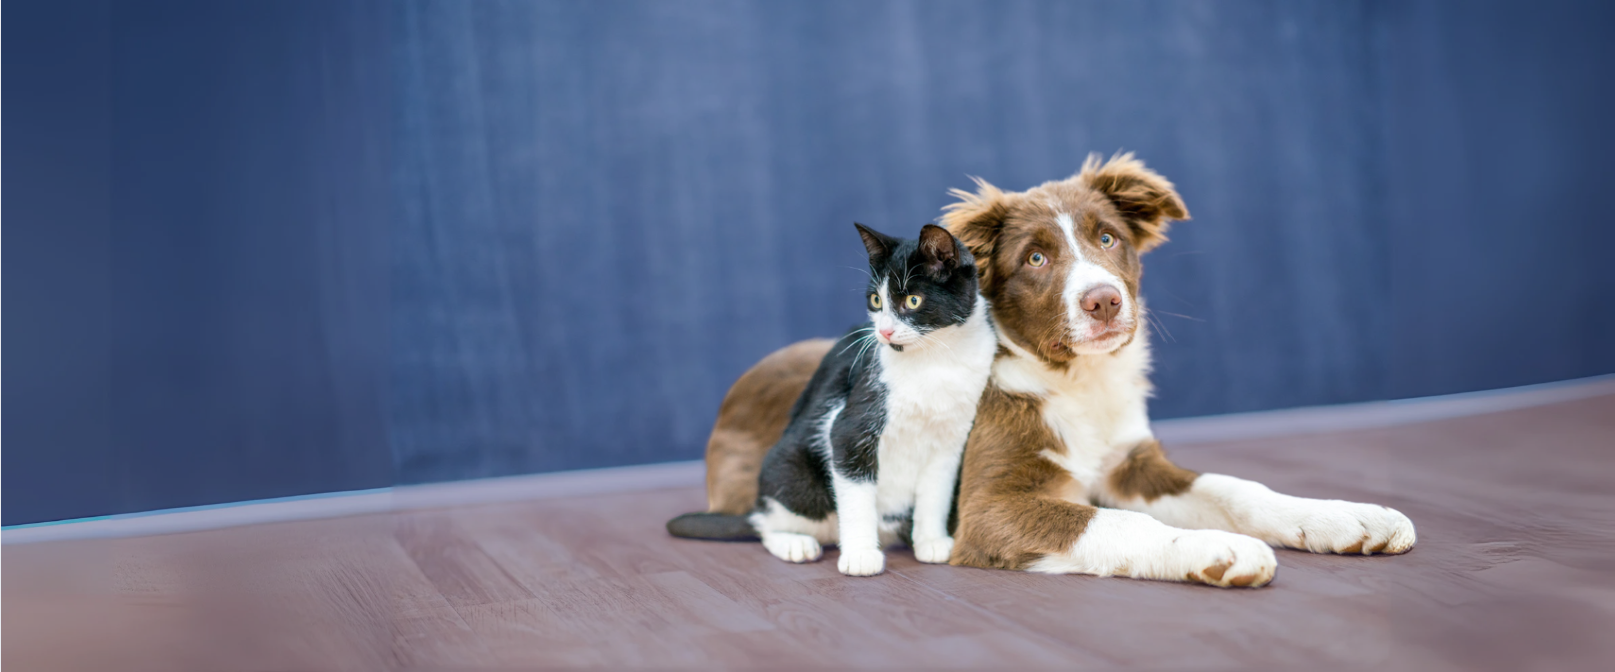
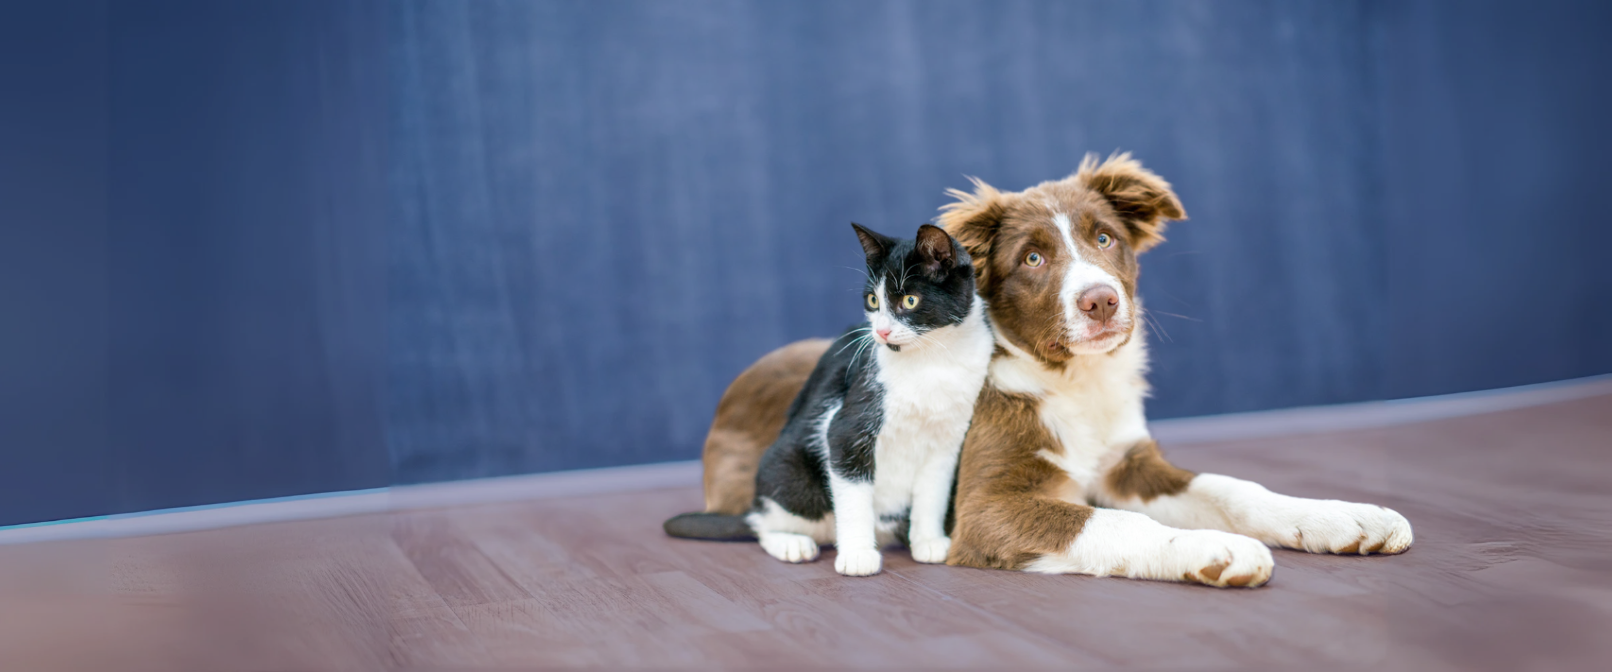
Fix styles

diff --git a/src/app/home/home.component.ts b/src/app/home/home.component.ts
@@ -4,6 +4,7 @@ import { ProductsCategoryCardComponent } from '../components/products-category-c
 import { FeatureProductsComponent } from "../components/feature-products/feature-products.component";
 import { OurAlliesComponent } from "../components/our-allies/our-allies.component";
 import { InsuranceExperienceComponent } from "../components/insurance-experience/insurance-experience.component";
+import { CustomersComponent } from "../components/customers/customers.component";
 
 @Component({
   selector: 'app-home',
@@ -13,7 +14,8 @@ import { InsuranceExperienceComponent } from "../components/insurance-experience
     ProductsCategoryCardComponent,
     FeatureProductsComponent,
     OurAlliesComponent,
-    InsuranceExperienceComponent
+    InsuranceExperienceComponent,
+    CustomersComponent
 ],
   templateUrl: './home.component.html',
   styleUrl: './home.component.css',

diff --git a/src/app/components/customers/customers.component.css b/src/app/components/customers/customers.component.css
@@ -1,0 +1,47 @@
+
+.customers {
+  display: block;
+  width: 100%;
+  padding-top: 80px;
+  background-color: #f9f9f9;
+}
+
+.customers h1 {
+  text-align: center;
+  color: var(--primaryTextColor);
+  font-size: 3rem;
+  width: 100%;
+}
+
+.customers-container {
+  display: flex;
+  justify-content: space-around;
+  align-items: center;
+  flex-wrap: wrap;
+  padding: 0;
+  gap: 50px;
+}
+
+.customer-item {
+  position: relative;
+  width: 350px;
+  height: 350px;
+  border-radius: 50px;
+  overflow: hidden;
+  display: flex;
+  justify-content: center;
+  align-items: center;
+}
+
+.customer-item img {
+  width: 100%;
+  height: 100%;
+  object-fit: contain;
+  object-position: center;
+}
+
+@media screen and (max-width: 767px) {
+  .customers-container {
+    padding: 0;
+  }
+}

diff --git a/src/app/components/insurance-experience/insurance-experience.component.css b/src/app/components/insurance-experience/insurance-experience.component.css
@@ -219,44 +219,3 @@
     width: 100%;
   }
 }
-
-/* Customer */
-
-.customers-container {
-  display: flex;
-  justify-content: space-around;
-  align-items: center;
-  flex-wrap: wrap;
-  padding: 50px 0;
-  gap: 50px;
-}
-
-.customer-item {
-  position: relative;
-  width: 350px;
-  height: 350px;
-  border-radius: 50px;
-  overflow: hidden;
-  background-color: white;
-  display: flex;
-  justify-content: center;
-  align-items: center;
-}
-
-.customer-item img {
-  width: 100%;
-  height: 100%;
-  object-fit: contain;
-  object-position: center;
-}
-
-@media screen and (max-width: 767px) {
-  .customers-container {
-    padding: 0;
-  }
-
-  .customer-item {
-    width: 100%;
-  }
-
-}

diff --git a/src/app/components/our-allies/our-allies.component.html b/src/app/components/our-allies/our-allies.component.html
@@ -1,12 +1,12 @@
 <div class="section-container">
   <h1>Nuestros Aliados</h1>
   <div class="banner-container">
-    <div class="banner-content" *ngFor="let ally of allies">
+    <div class="banner-content remove-bg" *ngFor="let ally of allies">
       <div class="image-container">
         <img cTooltip="{{ally.name}}" [src]="ally.image" alt="{{ally.name}}">
       </div>
     </div>
-    <div aria-hidden class="banner-content" *ngFor="let ally of allies">
+    <div aria-hidden class="banner-content remove-bg" *ngFor="let ally of allies">
       <div class="image-container">
         <img cTooltip="{{ally.name}}" [src]="ally.image" alt="{{ally.name}}">
       </div>

diff --git a/src/app/components/customers/customers.component.spec.ts b/src/app/components/customers/customers.component.spec.ts
@@ -1,0 +1,23 @@
+import { ComponentFixture, TestBed } from '@angular/core/testing';
+
+import { CustomersComponent } from './customers.component';
+
+describe('CustomersComponent', () => {
+  let component: CustomersComponent;
+  let fixture: ComponentFixture<CustomersComponent>;
+
+  beforeEach(async () => {
+    await TestBed.configureTestingModule({
+      imports: [CustomersComponent]
+    })
+    .compileComponents();
+
+    fixture = TestBed.createComponent(CustomersComponent);
+    component = fixture.componentInstance;
+    fixture.detectChanges();
+  });
+
+  it('should create', () => {
+    expect(component).toBeTruthy();
+  });
+});

diff --git a/src/app/components/customers/customers.component.html b/src/app/components/customers/customers.component.html
@@ -1,0 +1,14 @@
+<div class="customers">
+  <h1>Clientes que confian en nosotros</h1>
+  <div class="customers-container">
+    <div class="customer-item">
+      <img src="/images/logos/miniso.png" class="remove-bg" alt="miniso-image">
+    </div>
+    <div class="customer-item">
+      <img src="/images/logos/farmacias-simi.png" class="remove-bg" alt="simi-image">
+    </div>
+    <div class="customer-item">
+      <img src="/images/logos/gabrica.png" class="remove-bg" alt="gabrica-image">
+    </div>
+  </div>
+</div>

diff --git a/src/app/components/insurance-experience/insurance-experience.component.html b/src/app/components/insurance-experience/insurance-experience.component.html
@@ -27,16 +27,4 @@
       <h1>Líneas de Producto</h1>
     </div>
   </div>
-  <h1>Clientes que confian en nosotros</h1>
-  <div class="customers-container">
-    <div class="customer-item">
-      <img src="/images/logos/miniso.png" alt="">
-    </div>
-    <div class="customer-item">
-      <img src="/images/logos/farmacias-simi.png" alt="">
-    </div>
-    <div class="customer-item">
-      <img src="/images/logos/gabrica.png" alt="">
-    </div>
-  </div>
 </div>

diff --git a/src/app/components/customers/customers.component.ts b/src/app/components/customers/customers.component.ts
@@ -1,0 +1,12 @@
+import { Component } from '@angular/core';
+
+@Component({
+  selector: 'app-customers',
+  standalone: true,
+  imports: [],
+  templateUrl: './customers.component.html',
+  styleUrl: './customers.component.css'
+})
+export class CustomersComponent {
+
+}

diff --git a/src/assets/styles/styles.css b/src/assets/styles/styles.css
@@ -37,6 +37,11 @@ h1, h2, h3, h4, h5, h6 {
   flex: 1 1 auto;
 }
 
+.remove-bg {
+  filter: brightness(1.1);
+  mix-blend-mode: multiply;
+}
+
 ::ng-deep .primary-bg {
   background-color: var(--primaryColor) !important;
 }

diff --git a/src/app/components/main-banner/main-banner.component.html b/src/app/components/main-banner/main-banner.component.html
@@ -1,5 +1,5 @@
 <div class="carousel-container">
-  <c-carousel [interval]="0">
+  <c-carousel [interval]="5000">
     <c-carousel-indicators></c-carousel-indicators>
     <c-carousel-inner>
       <c-carousel-item>

diff --git a/src/app/components/feature-products/feature-products.component.css b/src/app/components/feature-products/feature-products.component.css
@@ -6,7 +6,7 @@
   gap: 70px;
   width: 100%;
   height: 100%;
-  background: var(--secondaryBGColor);
+  background: var(--secondaryColor);
   padding: 50px 20px 100px;
 }
 

diff --git a/src/app/components/our-allies/our-allies.component.css b/src/app/components/our-allies/our-allies.component.css
@@ -6,7 +6,7 @@
 }
 
 .section-container h1 {
-  color: var(--primaryColor);
+  color: var(--primaryTextColor);
   font-size: 3rem;
   text-align: center;
   margin: 0;
